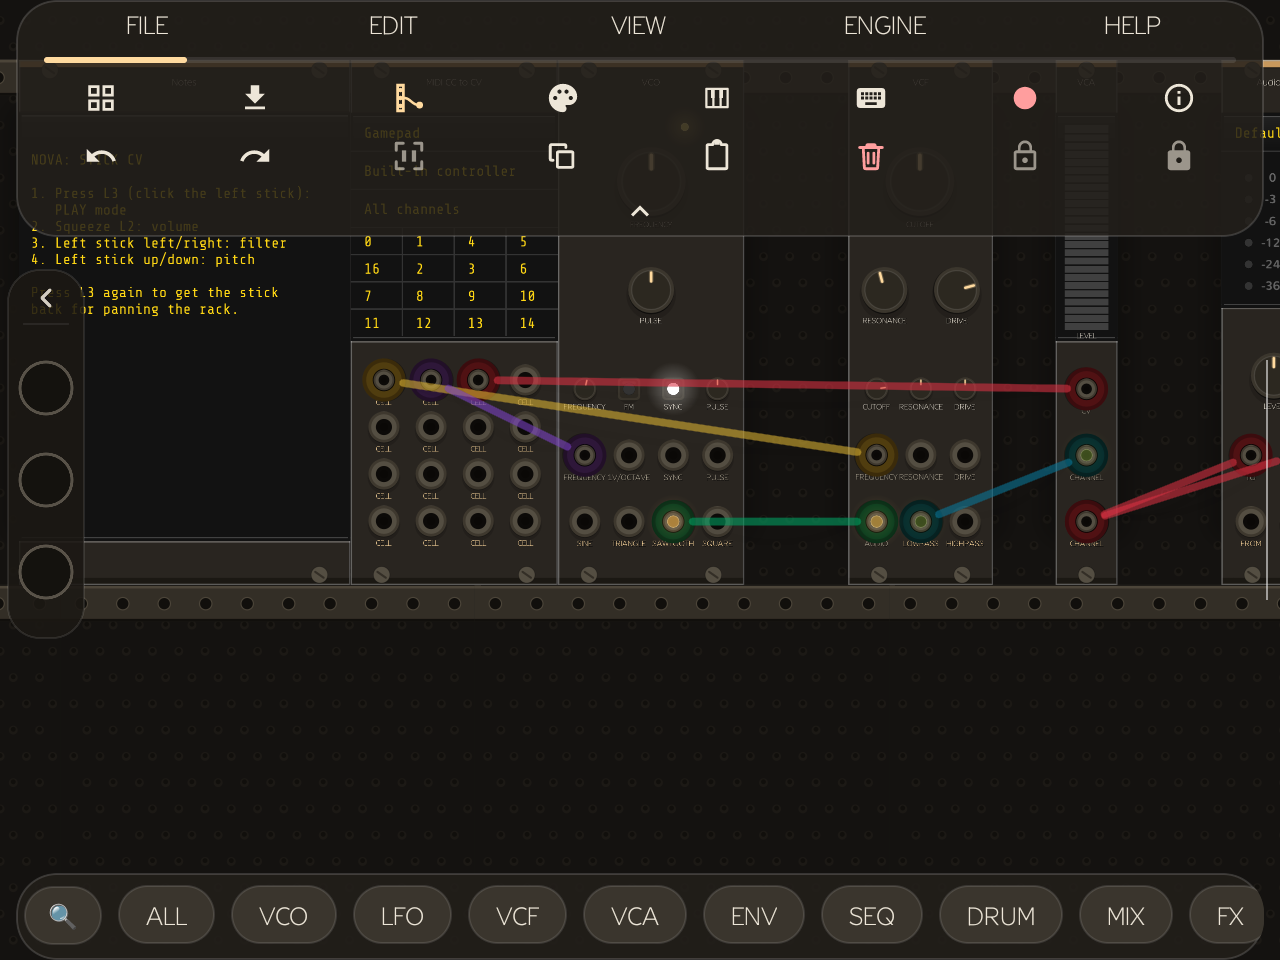
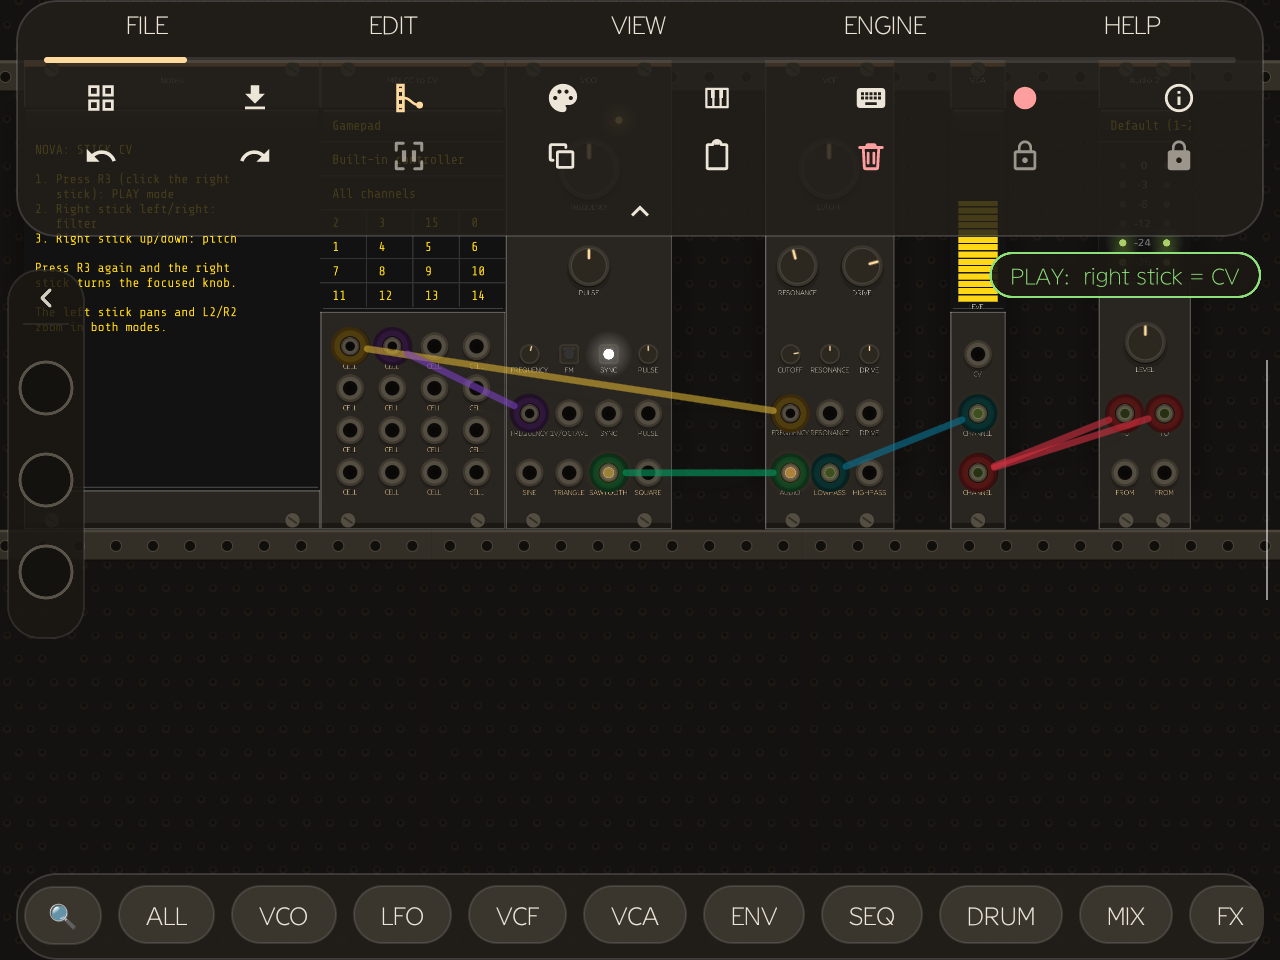
Play mode hands over the right stick only
The first cut gave the left stick and the triggers to the patch, which
took panning and zooming away exactly when playing. Panning has no
substitute, while a knob can still be edited with A and the D-pad, so it
is the right stick that changes hands: R3 toggles play mode, the right
stick becomes CC 2/3, and the left stick and triggers keep moving the
view in both modes. L3 is sent as a gate while playing.

Claude-Session: https://claude.ai/code/session_01KUzuoYGZVnvTDs35CbhXRZ

diff --git a/native/port/gamepad_nav.cpp b/native/port/gamepad_nav.cpp
@@ -14,8 +14,10 @@
  *   right stick  turn the focused knob directly
  *   left stick   pan the rack
  *   L2 / R2      zoom out / in
- *   L3           play mode: the left stick and the triggers become voltages
- *                for the patch instead (see gamepad_midi.cpp)
+ *   R3           play mode: the right stick becomes two voltages for the patch
+ *                instead (see gamepad_midi.cpp). Only the right stick changes
+ *                hands -- a knob can still be edited with A and the D-pad,
+ *                while nothing else can pan.
  *   L1 / R1      previous / next module
  *   SELECT       cycle the zoom
  *
@@ -661,7 +663,7 @@ void gamepadNavButton(int button, bool down) {
 	}
 	if (!down)
 		return;
-	if (button == PAD_L3) {
+	if (button == PAD_R3) {
 		g_playMode = !g_playMode;
 		g_modeChanged = system::getTime();
 		g_active = wasActive;
@@ -714,7 +716,8 @@ static float shapeStick(float v) {
 
 
 static void turnWithStick(float dt) {
-	if (!g_active || g_focus.kind != FOCUS_PARAM)
+	// In play mode the right stick belongs to the patch.
+	if (g_playMode || !g_active || g_focus.kind != FOCUS_PARAM)
 		return;
 	// Up and right turn the knob up; sideways is a tenth as fast, for trimming.
 	float amount = -shapeStick(gamepadAxis(PAD_RY)) * 0.55f + shapeStick(gamepadAxis(PAD_RX)) * 0.055f;
@@ -759,8 +762,7 @@ moved without a finger -- which on a small screen grabs a module or a knob as
 often as it grabs the background. */
 static void panAndZoom(float dt) {
 	app::RackScrollWidget* rs = APP->scene->rackScroll;
-	// In play mode the stick and the triggers belong to the patch.
-	if (!rs || g_playMode)
+	if (!rs)
 		return;
 	math::Vec pan(shapeStick(gamepadAxis(PAD_LX)), shapeStick(gamepadAxis(PAD_LY)));
 	if (pan.x != 0.f || pan.y != 0.f) {
@@ -959,9 +961,9 @@ struct GamepadOverlay : widget::Widget {
 		nvgResetScissor(args.vg);
 	}
 
-	/** Which mode the left stick is in: said in full for a moment after L3,
+	/** Which mode the right stick is in: said in full for a moment after R3,
 	then kept as a small tag for as long as play mode lasts, since a stick that
-	has stopped moving the view needs explaining. */
+	has stopped turning knobs needs explaining. */
 	void drawMode(const DrawArgs& args) {
 		bool fresh = system::getTime() - g_modeChanged < 2.5;
 		if (!fresh && !g_playMode)
@@ -969,8 +971,8 @@ struct GamepadOverlay : widget::Widget {
 		if (!APP->window->uiFont)
 			return;
 		std::string text = !fresh ? "PLAY"
-			: g_playMode ? "PLAY:  left stick, L2, R2 = CV"
-			: "VIEW:  left stick pans, L2 / R2 zoom";
+			: g_playMode ? "PLAY:  right stick = CV"
+			: "EDIT:  right stick turns the knob";
 		NVGcolor accent = g_playMode ? nvgRGB(0x8D, 0xE0, 0x7A) : RING;
 		nvgFontFaceId(args.vg, APP->window->uiFont->handle);
 		nvgFontSize(args.vg, 13.f);

diff --git a/native/port/gamepad_midi.cpp b/native/port/gamepad_midi.cpp
@@ -8,22 +8,23 @@
  * driver id (-10) and name, so a patch made on either side finds the driver on
  * the other. The CC numbers follow what GLFW gives for a standard pad there:
  *
- *   CC 0  left stick X      -10..10 V (right is positive)
- *   CC 1  left stick Y      -10..10 V (up is positive)
- *   CC 2  right stick X     held at 0: the right stick turns the focused knob
- *   CC 3  right stick Y     held at 0
- *   CC 4  L2                0..10 V
- *   CC 5  R2                0..10 V
+ *   CC 0  left stick X      held at 0: the left stick pans the rack
+ *   CC 1  left stick Y      held at 0
+ *   CC 2  right stick X     -10..10 V (right is positive)
+ *   CC 3  right stick Y     -10..10 V (up is positive)
+ *   CC 4  L2                held at 0: the triggers zoom the rack
+ *   CC 5  R2                held at 0
  *   CC 6..20  buttons A B X Y L1 R1 SELECT START GUIDE L3 R3 up right down left
- *             (0 or 10 V; only R3 is sent, the rest operate the rack)
+ *             (0 or 10 V; only L3 is sent, as a gate -- the rest operate the
+ *             rack, and R3 is the play-mode switch)
  *   CC 21 on  reserved for the tilt sensor and the touch pad
  *
- * Two differences from the desktop driver, both on purpose: the triggers rest
- * at 0 V instead of -10 V, and stick-up is the positive direction.
+ * One difference from the desktop driver, on purpose: stick-up is the positive
+ * direction.
  *
- * The sticks and triggers only reach the patch in play mode (L3 toggles it,
- * see gamepad_nav.cpp). Outside it they pan and zoom the rack, and the patch
- * sees them at rest.
+ * The right stick only reaches the patch in play mode (R3 toggles it, see
+ * gamepad_nav.cpp). Outside it the stick turns the focused knob, and the patch
+ * sees it at rest.
  */
 #include <algorithm>
 #include <cmath>
@@ -66,10 +67,8 @@ struct PadMidiDevice : rack::midi::InputDevice {
 		bool play = gamepadPlayMode();
 		float axes[NUM_AXES] = {};
 		if (play) {
-			axes[0] = restAtZero(gamepadAxis(PAD_LX));
-			axes[1] = -restAtZero(gamepadAxis(PAD_LY));
-			axes[4] = gamepadAxis(PAD_L2);
-			axes[5] = gamepadAxis(PAD_R2);
+			axes[2] = restAtZero(gamepadAxis(PAD_RX));
+			axes[3] = -restAtZero(gamepadAxis(PAD_RY));
 		}
 		for (int i = 0; i < NUM_CCS; i++) {
 			// Same encoding as Rack's own driver: fourteen bits, allowed to go
@@ -78,7 +77,7 @@ struct PadMidiDevice : rack::midi::InputDevice {
 			if (i < NUM_AXES)
 				value = (int16_t) std::max(-0x3f80, std::min(0x3f80, (int) std::round(axes[i] * 0x3f80)));
 			else
-				value = (play && i - NUM_AXES == PAD_R3 && gamepadButton(PAD_R3)) ? 0x3f80 : 0;
+				value = (play && i - NUM_AXES == PAD_L3 && gamepadButton(PAD_L3)) ? 0x3f80 : 0;
 			if (value == sent[i])
 				continue;
 			sent[i] = value;

diff --git a/native/port/asset_extract.cpp b/native/port/asset_extract.cpp
@@ -29,7 +29,7 @@ namespace rackdroid {
 static const char* MARKER_NAME = "/.assets-version";
 /* Bump when the system.zip contents change without a Rack version change
    (e.g. new directories added to the Gradle packSystemAssets task). */
-static const char* ASSETS_REVISION = "r33-nova2"; // nova1-2: the stick-CV demo patch for the game controller; r33: components drawn by what the code uses them for (jacks and buttons were knobs where the file name misled); r32: the cream theme; r31: the missing-modules message points at module packs, not the VCV Library; r30: rail holes grouped one path per row (667 SVG shapes -> 51; one path for all of them made svgDraw quadratic); r28: translations rebranded to RackDroid (packSystemAssets rewrites them); r27: themed rack graphics (themes/<name>/); r24: 909/707/606/505 drums; r23: Geomini app typeface; r22: panel/rail contrast fix; r21: glass panels (sheen+translucency); r20: warm-studio palette; r19: modern regenerated art (gradients); r18: RackDroid Drums (first-party, original); r17: Befaco(regen art) + NLC; r16: demo audio driver fix; r15: demo seed refresh; r14: Aria + touch tutorial + demo patches; r13: AudibleInstruments (regen art); r12: Autinn + FrozenWasteland(regen art); r11: 5 new plugin packs; r10: real slider art; r9: mm-unit fix on regenerated SVGs; r8: HetrickCV res; r7: Valley plugin res; r6: perforated grate rail background; r5: original (non-VCV) graphics
+static const char* ASSETS_REVISION = "r33-nova3"; // nova1-3: the stick-CV demo patch for the game controller; r33: components drawn by what the code uses them for (jacks and buttons were knobs where the file name misled); r32: the cream theme; r31: the missing-modules message points at module packs, not the VCV Library; r30: rail holes grouped one path per row (667 SVG shapes -> 51; one path for all of them made svgDraw quadratic); r28: translations rebranded to RackDroid (packSystemAssets rewrites them); r27: themed rack graphics (themes/<name>/); r24: 909/707/606/505 drums; r23: Geomini app typeface; r22: panel/rail contrast fix; r21: glass panels (sheen+translucency); r20: warm-studio palette; r19: modern regenerated art (gradients); r18: RackDroid Drums (first-party, original); r17: Befaco(regen art) + NLC; r16: demo audio driver fix; r15: demo seed refresh; r14: Aria + touch tutorial + demo patches; r13: AudibleInstruments (regen art); r12: Autinn + FrozenWasteland(regen art); r11: 5 new plugin packs; r10: real slider art; r9: mm-unit fix on regenerated SVGs; r8: HetrickCV res; r7: Valley plugin res; r6: perforated grate rail background; r5: original (non-VCV) graphics
 
 static const char* THUMBS_MARKER_NAME = "/.thumbs-version";
 /* Bump when graphics/browser-thumbs/ is regenerated (rack_ui_smoke

diff --git a/native/port/gamepad_nav.hpp b/native/port/gamepad_nav.hpp
@@ -18,8 +18,8 @@ void installGamepadNav();
 /** A finger took over: the ring steps out of the way until the next button. */
 void gamepadNavNoteTouch();
 
-/** Play mode: the left stick and the triggers are voltages for the patch
-(gamepad_midi.cpp) instead of panning and zooming the rack. L3 toggles it. */
+/** Play mode: the right stick is two voltages for the patch (gamepad_midi.cpp)
+instead of turning the focused knob. R3 toggles it. */
 bool gamepadPlayMode();
 
 } // namespace rackdroid

diff --git a/nova/docs/status.md b/nova/docs/status.md
@@ -34,9 +34,11 @@
 - [ ] ③ モジュール追加、メインメニュー、モジュールのメニュー
 - [x] 左スティックでパン、L2 / R2 でズーム（ユーザーの要望で追加。実機での確認待ち）
 
-## M2 スティックと L2/R2 を CV に
+## M2 スティックを CV に
 
-- [x] `gamepad_midi.cpp`：VCV 標準と同じ ID・名前の「Gamepad」MIDI ドライバ。CC 0/1 = 左スティック X/Y（±10 V、上が正）、CC 4/5 = L2/R2（0〜10 V）、CC 16 = R3
-- [x] 演奏モード（L3 で切替）。演奏モード中だけスティックとトリガーがパッチに届き、それ以外ではパンとズームに使う
-- [x] デモパッチ `Nova 1 - Stick CV.vcv` を同梱（L2 = 音量、スティック左右 = フィルター、上下 = 音程）
-- [ ] 実機で確認（音が出るか、向きと効き具合）
+- [x] `gamepad_midi.cpp`：VCV 標準と同じ ID・名前の「Gamepad」MIDI ドライバ
+- [x] 演奏モード（**R3** で切替）。変わるのは右スティックだけ：CC 2/3 = 右スティック X/Y（±10 V、上が正）、CC 15 = L3（ゲート）
+- [x] 左スティックのパンと L2 / R2 のズームは、どちらのモードでも常に使える
+  - 2026-11-12 ユーザーの指摘で変更。当初は左スティックと L2/R2 を CV にしていたが、パンには代わりの手段がなく、つまみは A＋十字キーでも動かせるため、手放すなら右スティックのほうがよい。L2/R2 はズームのままとする（ユーザーの選択）
+- [x] デモパッチ `Nova 1 - Stick CV.vcv` を同梱（右スティック左右 = フィルター、上下 = 音程）
+- [ ] 実機で確認（スティックで音が変わるか、向きと効き具合）
